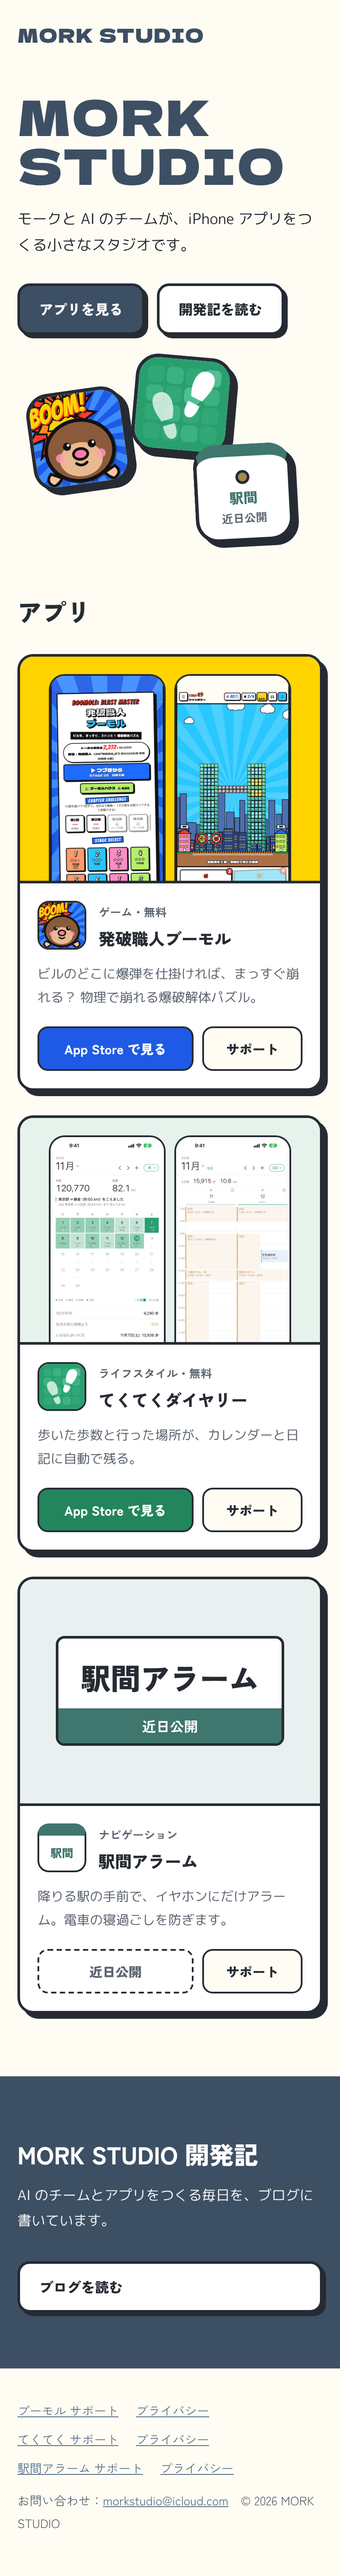
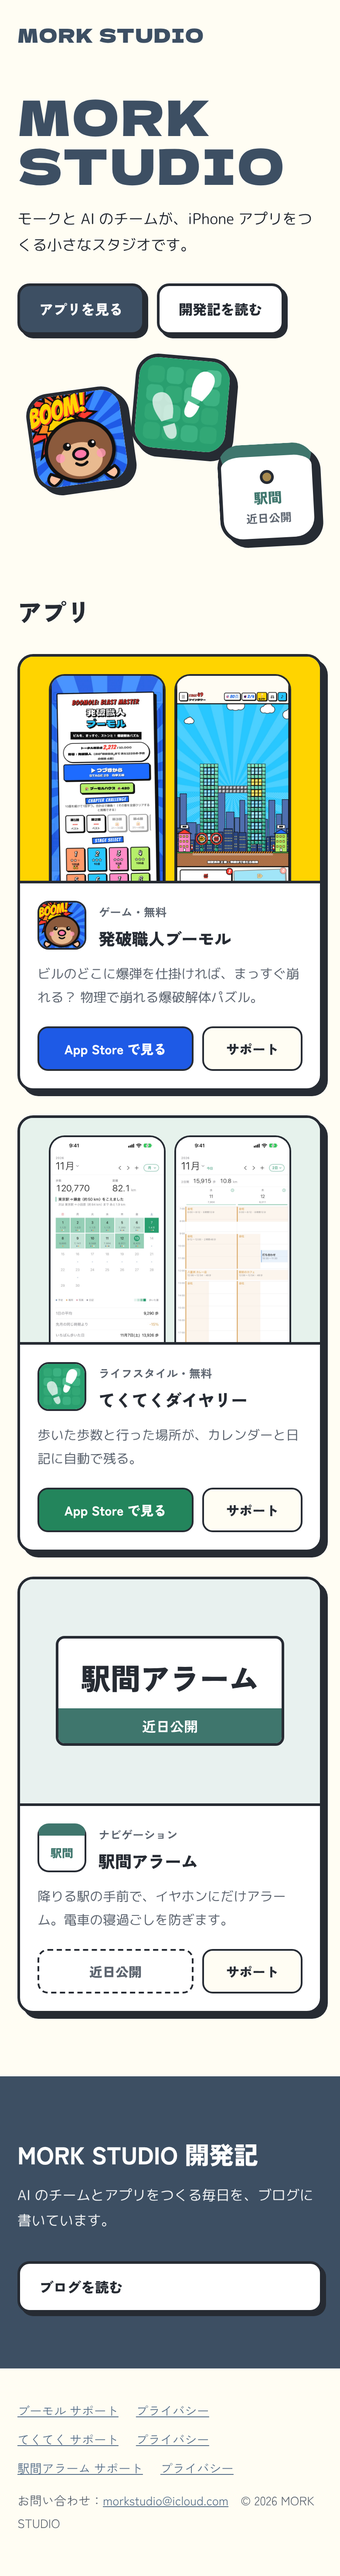
案A：タブレット幅で駅間のアイコンがはみ出さないよう右端に固定
Claude-Session: https://claude.ai/code/session_01WoLvv58PiFoaX28YjrQEfo

Changed region(s): [[0.5538, 0.1557, 0.9538, 0.218]]

diff --git a/preview/a.html b/preview/a.html
@@ -25,7 +25,7 @@ nav a{color:var(--ink);text-decoration:none;font-weight:700;font-size:15px;margi
 .stack .ic img{width:100%;height:100%;display:block}
 .ic1{left:4%;top:18%;transform:rotate(-8deg)}
 .ic2{left:38%;top:0;transform:rotate(5deg)}
-.ic3{left:58%;top:46%;transform:rotate(-3deg)}
+.ic3{right:2%;top:46%;transform:rotate(-3deg)}
 .soon{display:flex;flex-direction:column;align-items:center;justify-content:center;background:#fff !important;color:var(--eki);font-weight:900;font-size:24px;line-height:1.2;border-top:22px solid var(--eki) !important}
 .soon small{font-size:13px;color:var(--muted);font-weight:700;margin-top:6px}
 .soon .bell{width:16px;height:16px;border-radius:50%;background:var(--gold);border:3px solid var(--ink);margin-bottom:6px}
